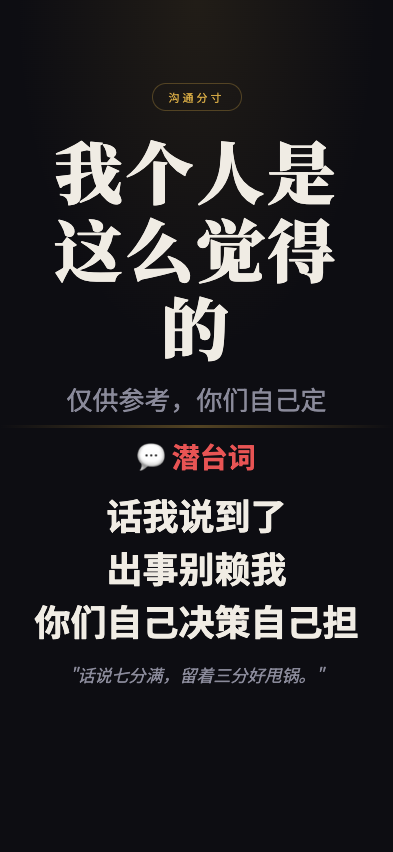
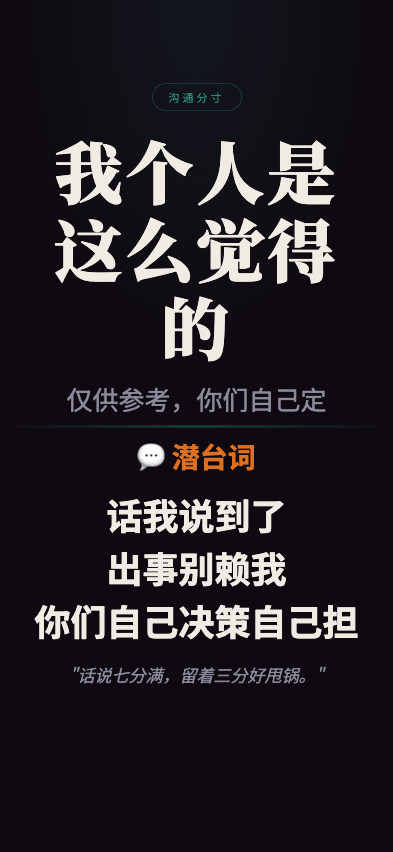
feat: 职场生存法则 screenshot - wogerenshizhemejuedede

Changed region(s): [[0.2443, 0.4883, 0.7634, 0.5493], [0.4275, 0.0915, 0.5802, 0.1221]]

diff --git a/wuliao-tools/tools/biz-speak/scenes/wogerenshizhemejuedede.html b/wuliao-tools/tools/biz-speak/scenes/wogerenshizhemejuedede.html
@@ -7,11 +7,11 @@
 <link href="https://fonts.googleapis.com/css2?family=Noto+Serif+SC:wght@400;700;900&family=Noto+Sans+SC:wght@300;400;700&display=swap" rel="stylesheet">
 <style>
   :root {
-    --bg: #0d0d12;
+    --bg: #0f0a12;
     --text: #f0ece4;
     --text-dim: #8a8a9a;
-    --gold: #d4a843;
-    --red: #e85454;
+    --gold: #2e8b7a;
+    --red: #e07020;
   }
   * { margin:0; padding:0; box-sizing:border-box; }
   html, body { width:100%; height:100%; overflow:hidden; }
@@ -24,11 +24,11 @@
   }
   body::before {
     content:''; position:absolute; top:0; left:0; right:0; height:45%;
-    background:radial-gradient(ellipse at 50% 0%, rgba(212,168,67,0.1) 0%, transparent 65%);
+    background:radial-gradient(ellipse at 50% 0%, rgba(46,139,122,0.1) 0%, transparent 65%);
     pointer-events:none; z-index:0;
   }
   .top { flex:1; display:flex; flex-direction:column; align-items:center; justify-content:flex-end; padding:4px 28px 8px; position:relative; z-index:1; }
-  .tag { font-size:11px; letter-spacing:3px; color:var(--gold); border:1px solid rgba(212,168,67,0.3); padding:5px 16px; border-radius:50px; margin-bottom:20px; }
+  .tag { font-size:11px; letter-spacing:3px; color:var(--gold); border:1px solid rgba(46,139,122,0.3); padding:5px 16px; border-radius:50px; margin-bottom:20px; }
   .main-title { font-family:'Noto Serif SC'; font-size:68px; font-weight:900; text-align:center; line-height:1.15; letter-spacing:3px; min-width:0; overflow-wrap:break-word; max-width:92%; }
   .sub-title { font-size:26px; color:var(--text-dim); text-align:center; margin-top:14px; }
   .divider { width:100%; height:3px; background:linear-gradient(90deg,transparent,var(--gold),transparent); opacity:0.35; flex-shrink:0; position:relative; z-index:1; }
